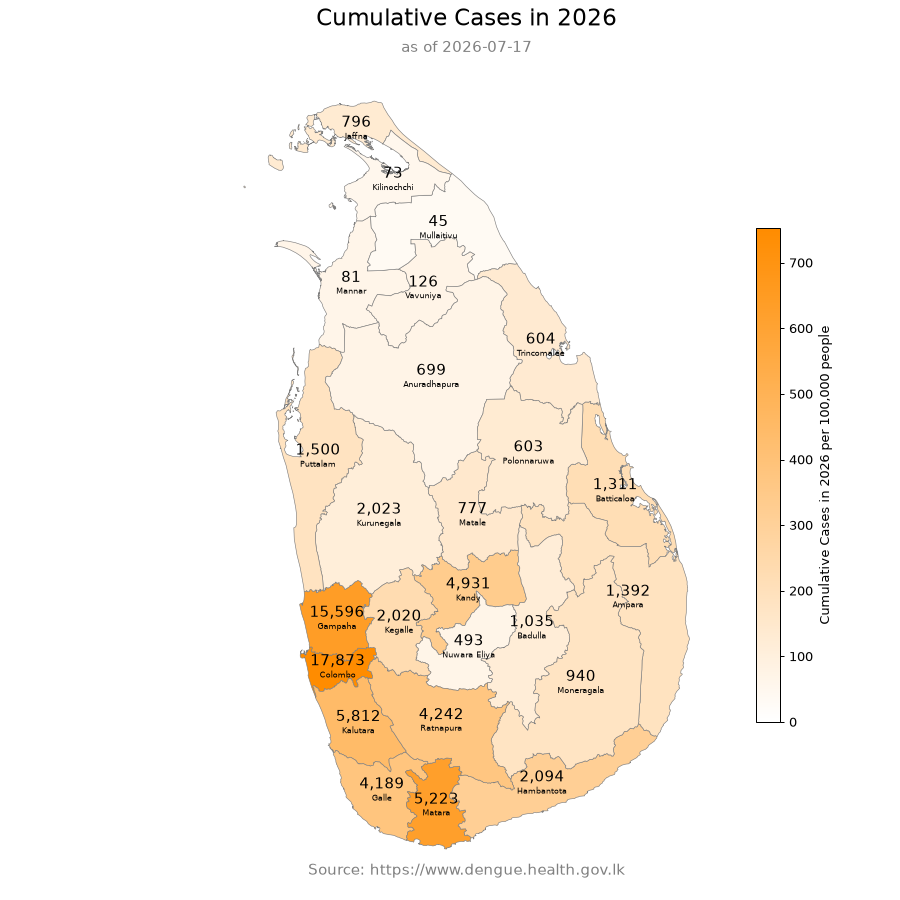
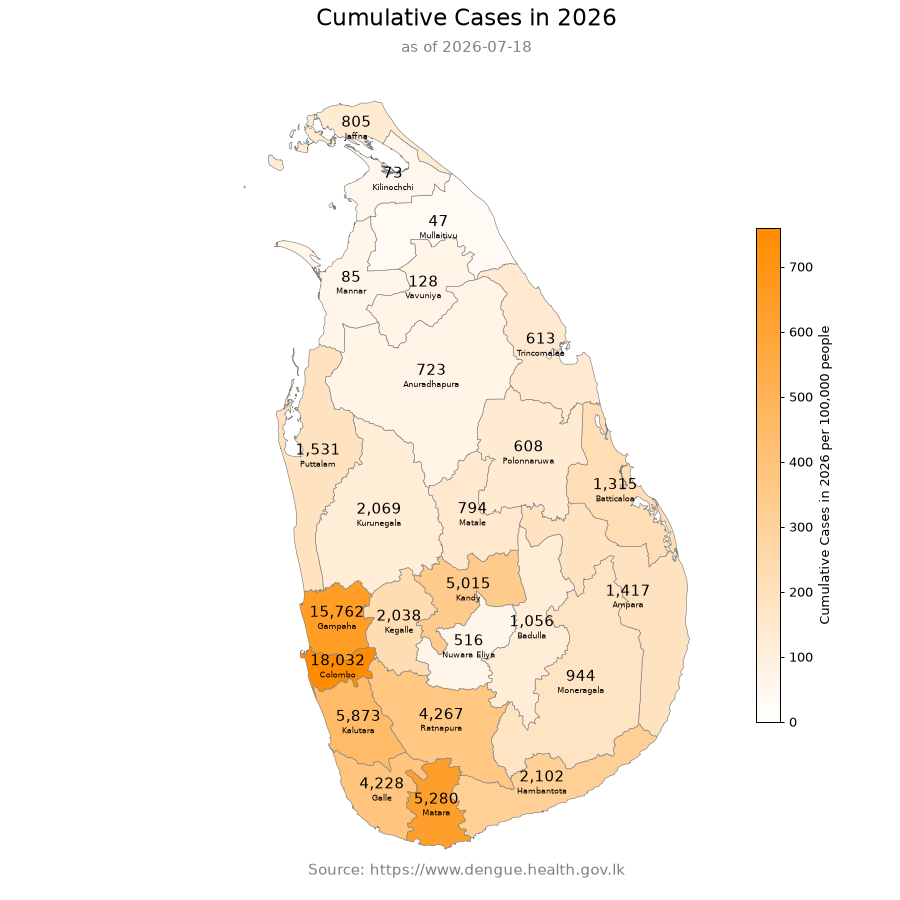
🤖 [pipeline.yml] 2026-07-19-1651

diff --git a/README.md b/README.md
@@ -264,6 +264,7 @@ As of 2026-07-12
 
 ### [National Dengue Control Unit - Daily Update](data/NDCUDaily)
 
+- [2026-07-18](data/NDCUDaily/2026/2026-07/2026-07-18)
 - [2026-07-17](data/NDCUDaily/2026/2026-07/2026-07-17)
 - [2026-07-16](data/NDCUDaily/2026/2026-07/2026-07-16)
 - [2026-07-15](data/NDCUDaily/2026/2026-07/2026-07-15)
